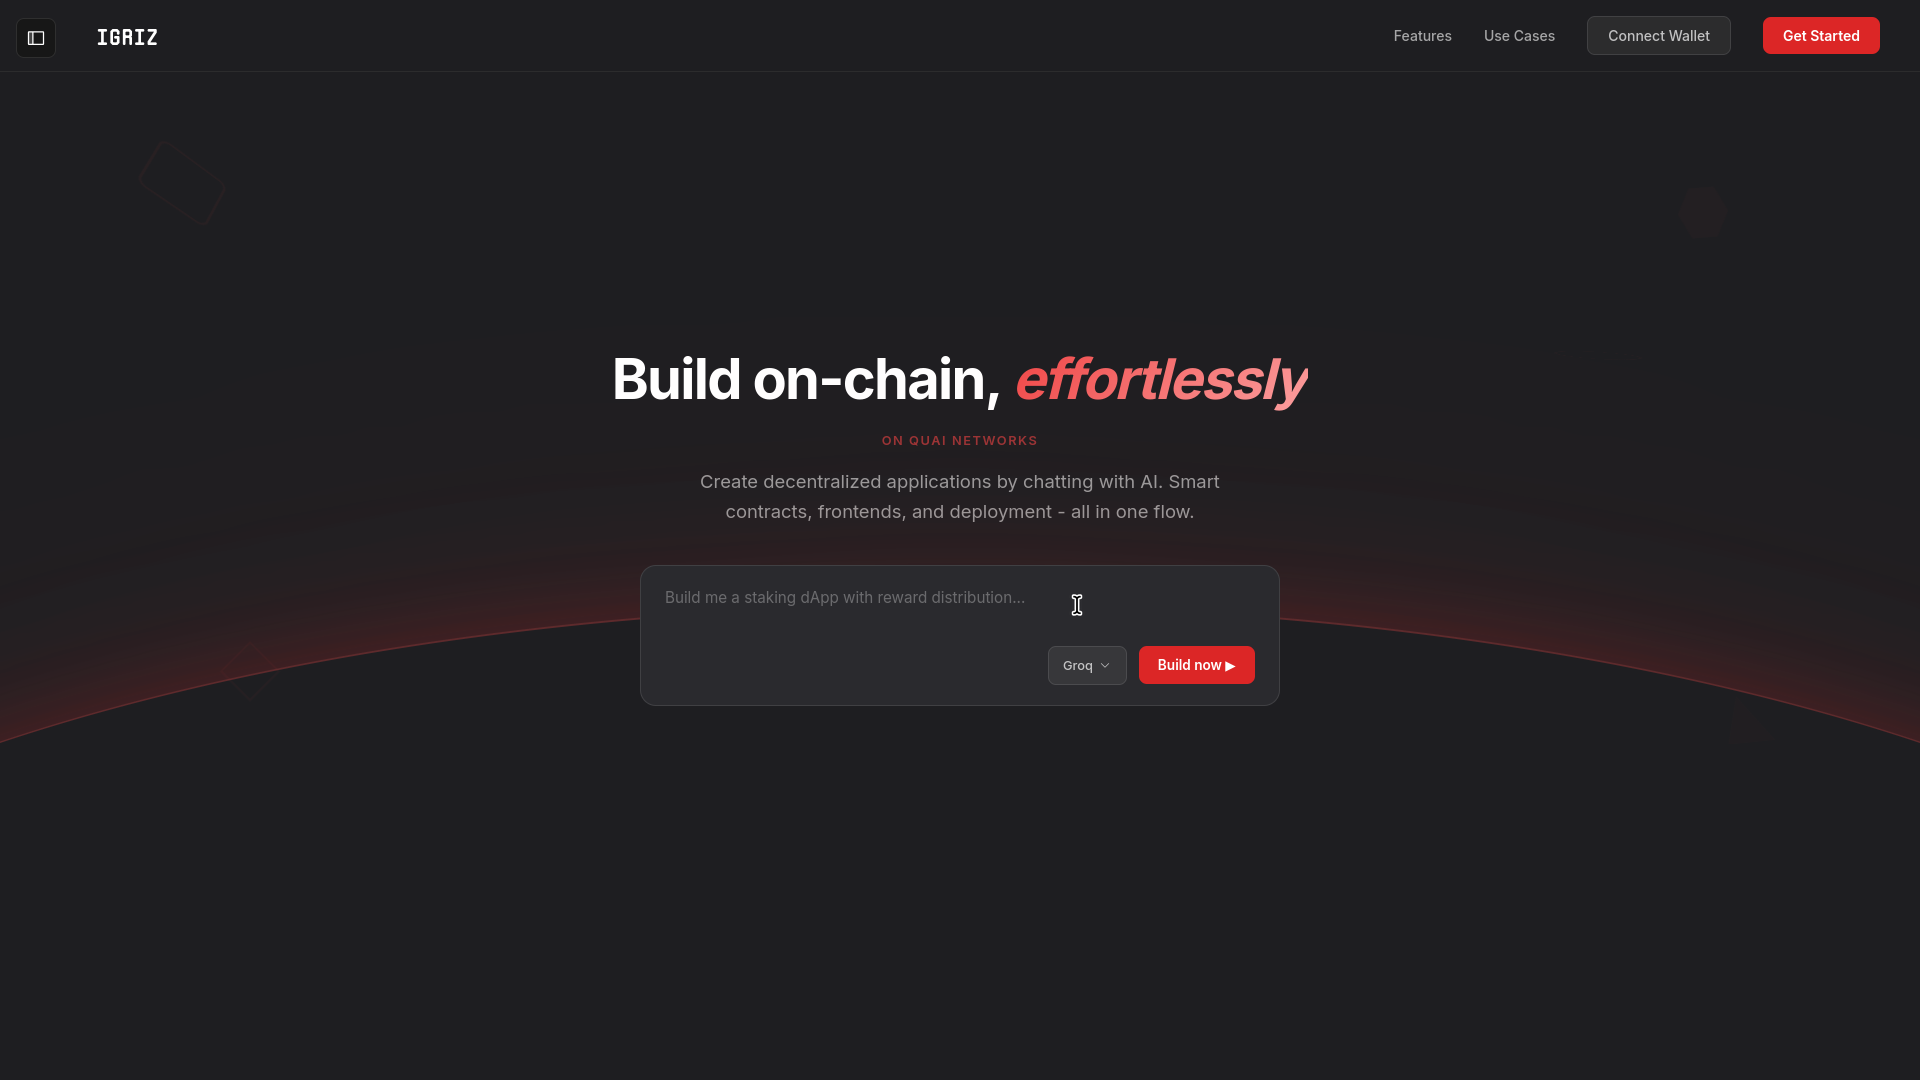
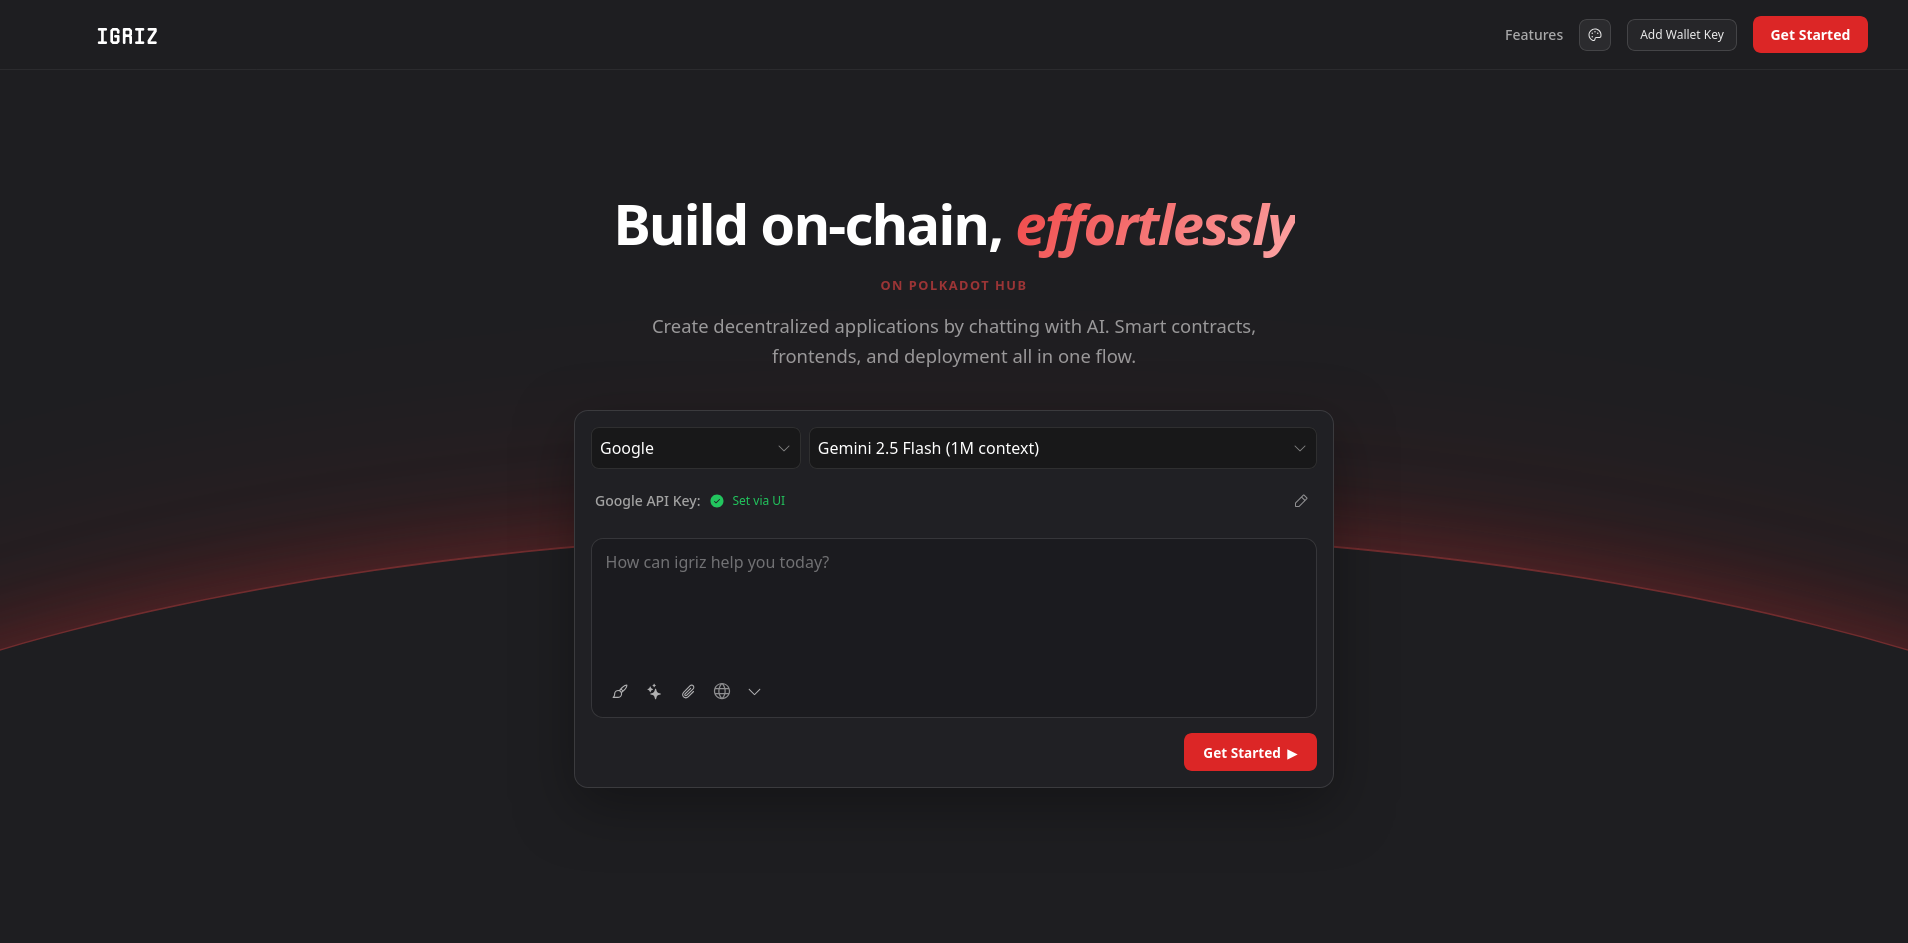
Updated Readme

diff --git a/README.md b/README.md
@@ -2,10 +2,11 @@
   <img src="imgs/logo.png" alt="Igriz Logo" width="280" />
 </p>
 
-# Igriz
+# IGRIZ — AI dApp Builder for Polkadot Hub EVM
 
-Igriz is an AI-driven dApp builder focused on **Polkadot Hub EVM** workflows.  
-It converts natural language prompts into Solidity contracts, frontend code, and shell/file actions, then executes those actions inside an in browser **WebContainer** workspace.
+Igriz turns natural language prompts into fully deployable Polkadot Hub dApps inside your browser, no local toolchain needed.
+
+Describe what you want to build. Igriz writes the Solidity contracts and frontend code, runs an automated security audit, and deploys to Polkadot Hub TestNet in one flow.
 
 <table>
   <tr>
@@ -21,7 +22,10 @@ It converts natural language prompts into Solidity contracts, frontend code, and
 ## Table of Contents
 
 - [What This Project Does](#what-this-project-does)
+- [What Makes Igriz Different](#what-makes-igriz-different)
 - [Core Capabilities](#core-capabilities)
+- [Target Network](#target-network)
+- [Tech Stack](#tech-stack)
 - [Architecture](#architecture)
 - [How x402 Payments Work](#how-x402-payments-work)
 - [API Endpoints](#api-endpoints)
@@ -35,7 +39,15 @@ It converts natural language prompts into Solidity contracts, frontend code, and
 
 ## What This Project Does
 
-Igriz provides a chat-to-code loop:
+**Chat-to-code:** Describe a dApp in plain language. The AI streams Solidity + frontend code into a live in-browser WebContainer workspace with a file tree, editor, terminal, and preview.
+
+**OpenZeppelin-aware audit:** Every generated contract is audited against OpenZeppelin best practices and security patterns. The AI flags deviations from OZ standards and suggests fixes using OpenZeppelin primitives — moving beyond boilerplate tokens toward meaningful application logic. Findings are bucketed by severity: critical, high, medium, low, and Polkadot-specific checks.
+
+**Fix and redeploy:** One click applies the AI-suggested fix (with OpenZeppelin-aligned remediation), recompiles, and redeploys. Unresolved findings block deployment.
+
+**Export:** Push to GitHub or deploy to Vercel directly from the UI.
+
+The full chat-to-code loop:
 
 1. User sends a prompt in chat.
 2. LLM streams a response that can include `<igrizArtifact>` + `<igrizAction>` tags.
@@ -44,18 +56,19 @@ Igriz provides a chat-to-code loop:
 5. Generated project appears in the integrated file tree/editor/terminal/preview.
 6. Solidity code can be audited and automatically fixed/redeployed from the UI.
 
-Primary dApp target:
+## What Makes Igriz Different
 
-- Network: `Polkadot Hub TestNet`
-- RPC: `https://services.polkadothub-rpc.com/testnet`
-- Chain ID: `420420417` (`0x1910E881`)
-- Explorer: `https://blockscout-testnet.polkadot.io/`
+Most AI coding tools are pay-per-seat or require an API key tied to a subscription. Igriz uses the **x402 micropayment protocol** each message costs **$0.001 USDC**, settled instantly on-chain. No account, no subscription, no API key. You pay for exactly what you use, nothing more.
+
+Your private key is held in memory for the session only. It is never written to disk, logged, or stored in any database.
+
+This makes Igriz the first AI dApp builder with a fully on-chain, pay-as-you-go access model a product that eats its own cooking by using Web3 infrastructure to gate access to a Web3 tool.
 
 ## Core Capabilities
 
 ### 1) AI Generation with Provider/Model Selection
 
-- Provider options: `Groq`, `OpenRouter`, `Google Gemini`
+- Provider options: `Groq`, `OpenRouter`, `Google Gemini`, `Nvidia`, `Ollama`
 - Server-side key fallback: `*_API_KEY` then `*_API_KEY_2`
 - Streaming responses with continuation when max token segment is reached
 
@@ -68,7 +81,7 @@ Primary dApp target:
 
 ### 3) Solidity Audit Workflow
 
-- `POST /api/audit` runs an LLM-based contract audit
+- `POST /api/audit` runs an LLM-based contract audit against OpenZeppelin best practices
 - Returns structured severity buckets:
   - `critical`
   - `high`
@@ -79,7 +92,7 @@ Primary dApp target:
 
 ### 4) Fix and Redeploy
 
-- `POST /api/audit-fix` returns revised Solidity source from findings
+- `POST /api/audit-fix` returns revised Solidity source from findings, with OpenZeppelin-aligned remediation
 - UI action applies fix and queues:
   1. `node scripts/compile.cjs`
   2. `rm -f src/contracts/deployedContract.json && node scripts/deploy.cjs`
@@ -90,7 +103,32 @@ Primary dApp target:
 - Vercel token validation + direct deployment
 - Deploy button can be blocked by unresolved audit acknowledgment state
 
+## Target Network
+
+```
+Network:   Polkadot Hub TestNet
+RPC:       https://services.polkadothub-rpc.com/testnet
+Chain ID:  420420417 (0x1910E881)
+Explorer:  https://blockscout-testnet.polkadot.io/
+```
+
+> Polkadot Hub EVM supports contracts up to **100KB** (vs Ethereum's 24KB limit), making it well-suited for the kind of feature-rich contracts Igriz generates.
+
+## Tech Stack
+
+- **Remix + React + TypeScript**
+- **WebContainer** (in-browser Node.js runtime)
+- **OpenZeppelin contracts** (audit reference + fix suggestions)
+- **LLM providers:** Groq, OpenRouter, Google Gemini, Nvidia, Ollama
+- **x402** for micropayment gating
+- **Chat persistence** on Supabase and IndexedDB
+- **Deployed on Vercel**
+
 ## Architecture
+
+<p align="center">
+  <img src="imgs/architecture.png" alt="Igriz Architecture Diagram" width="700" />
+</p>
 
 ### Frontend
 
@@ -120,11 +158,12 @@ Primary dApp target:
 ### Persistence
 
 - IndexedDB chat history (`igrizHistory` DB, `chats` store)
+- Supabase for extended chat persistence
 - Route-based session restore via `/chat/:id`
 
 ## How x402 Payments Work
 
-This app can gate `POST /api/chat` behind x402 payment verification and settlement.
+This app gates `POST /api/chat` behind x402 payment verification and settlement.
 
 ### Client Side
 
@@ -159,11 +198,7 @@ Flow inside `enforceX402ForChat`:
 - Default network: `eip155:84532` (Base Sepolia)
 - Default facilitator: `https://x402.org/facilitator`
 
-Important implementation note:
-
-- **Payment rail default network** (`eip155:84532`, Base Sepolia) is independent from
-  **generated dApp target network** (Polkadot Hub TestNet `420420417`).
-- This is why payment errors in chat mention Base Sepolia USDC requirements.
+> **Note:** The **payment rail default network** (`eip155:84532`, Base Sepolia) is independent from the **generated dApp target network** (Polkadot Hub TestNet `420420417`). This is why payment errors in chat mention Base Sepolia USDC requirements.
 
 ## API Endpoints
 
@@ -261,10 +296,9 @@ X402_FACILITATOR_URL=https://x402.org/facilitator
 X402_FACILITATOR_BEARER_TOKEN=
 ```
 
-Notes:
-
-- `X402_PAY_TO` is required when `X402_ENABLED=true`.
-- If using Coinbase CDP facilitator URL, bearer auth may be required; code falls back to public facilitator when missing.
+> **Notes:**
+> - `X402_PAY_TO` is required when `X402_ENABLED=true`.
+> - If using Coinbase CDP facilitator URL, bearer auth may be required; code falls back to public facilitator when missing.
 
 ## Scripts
 
